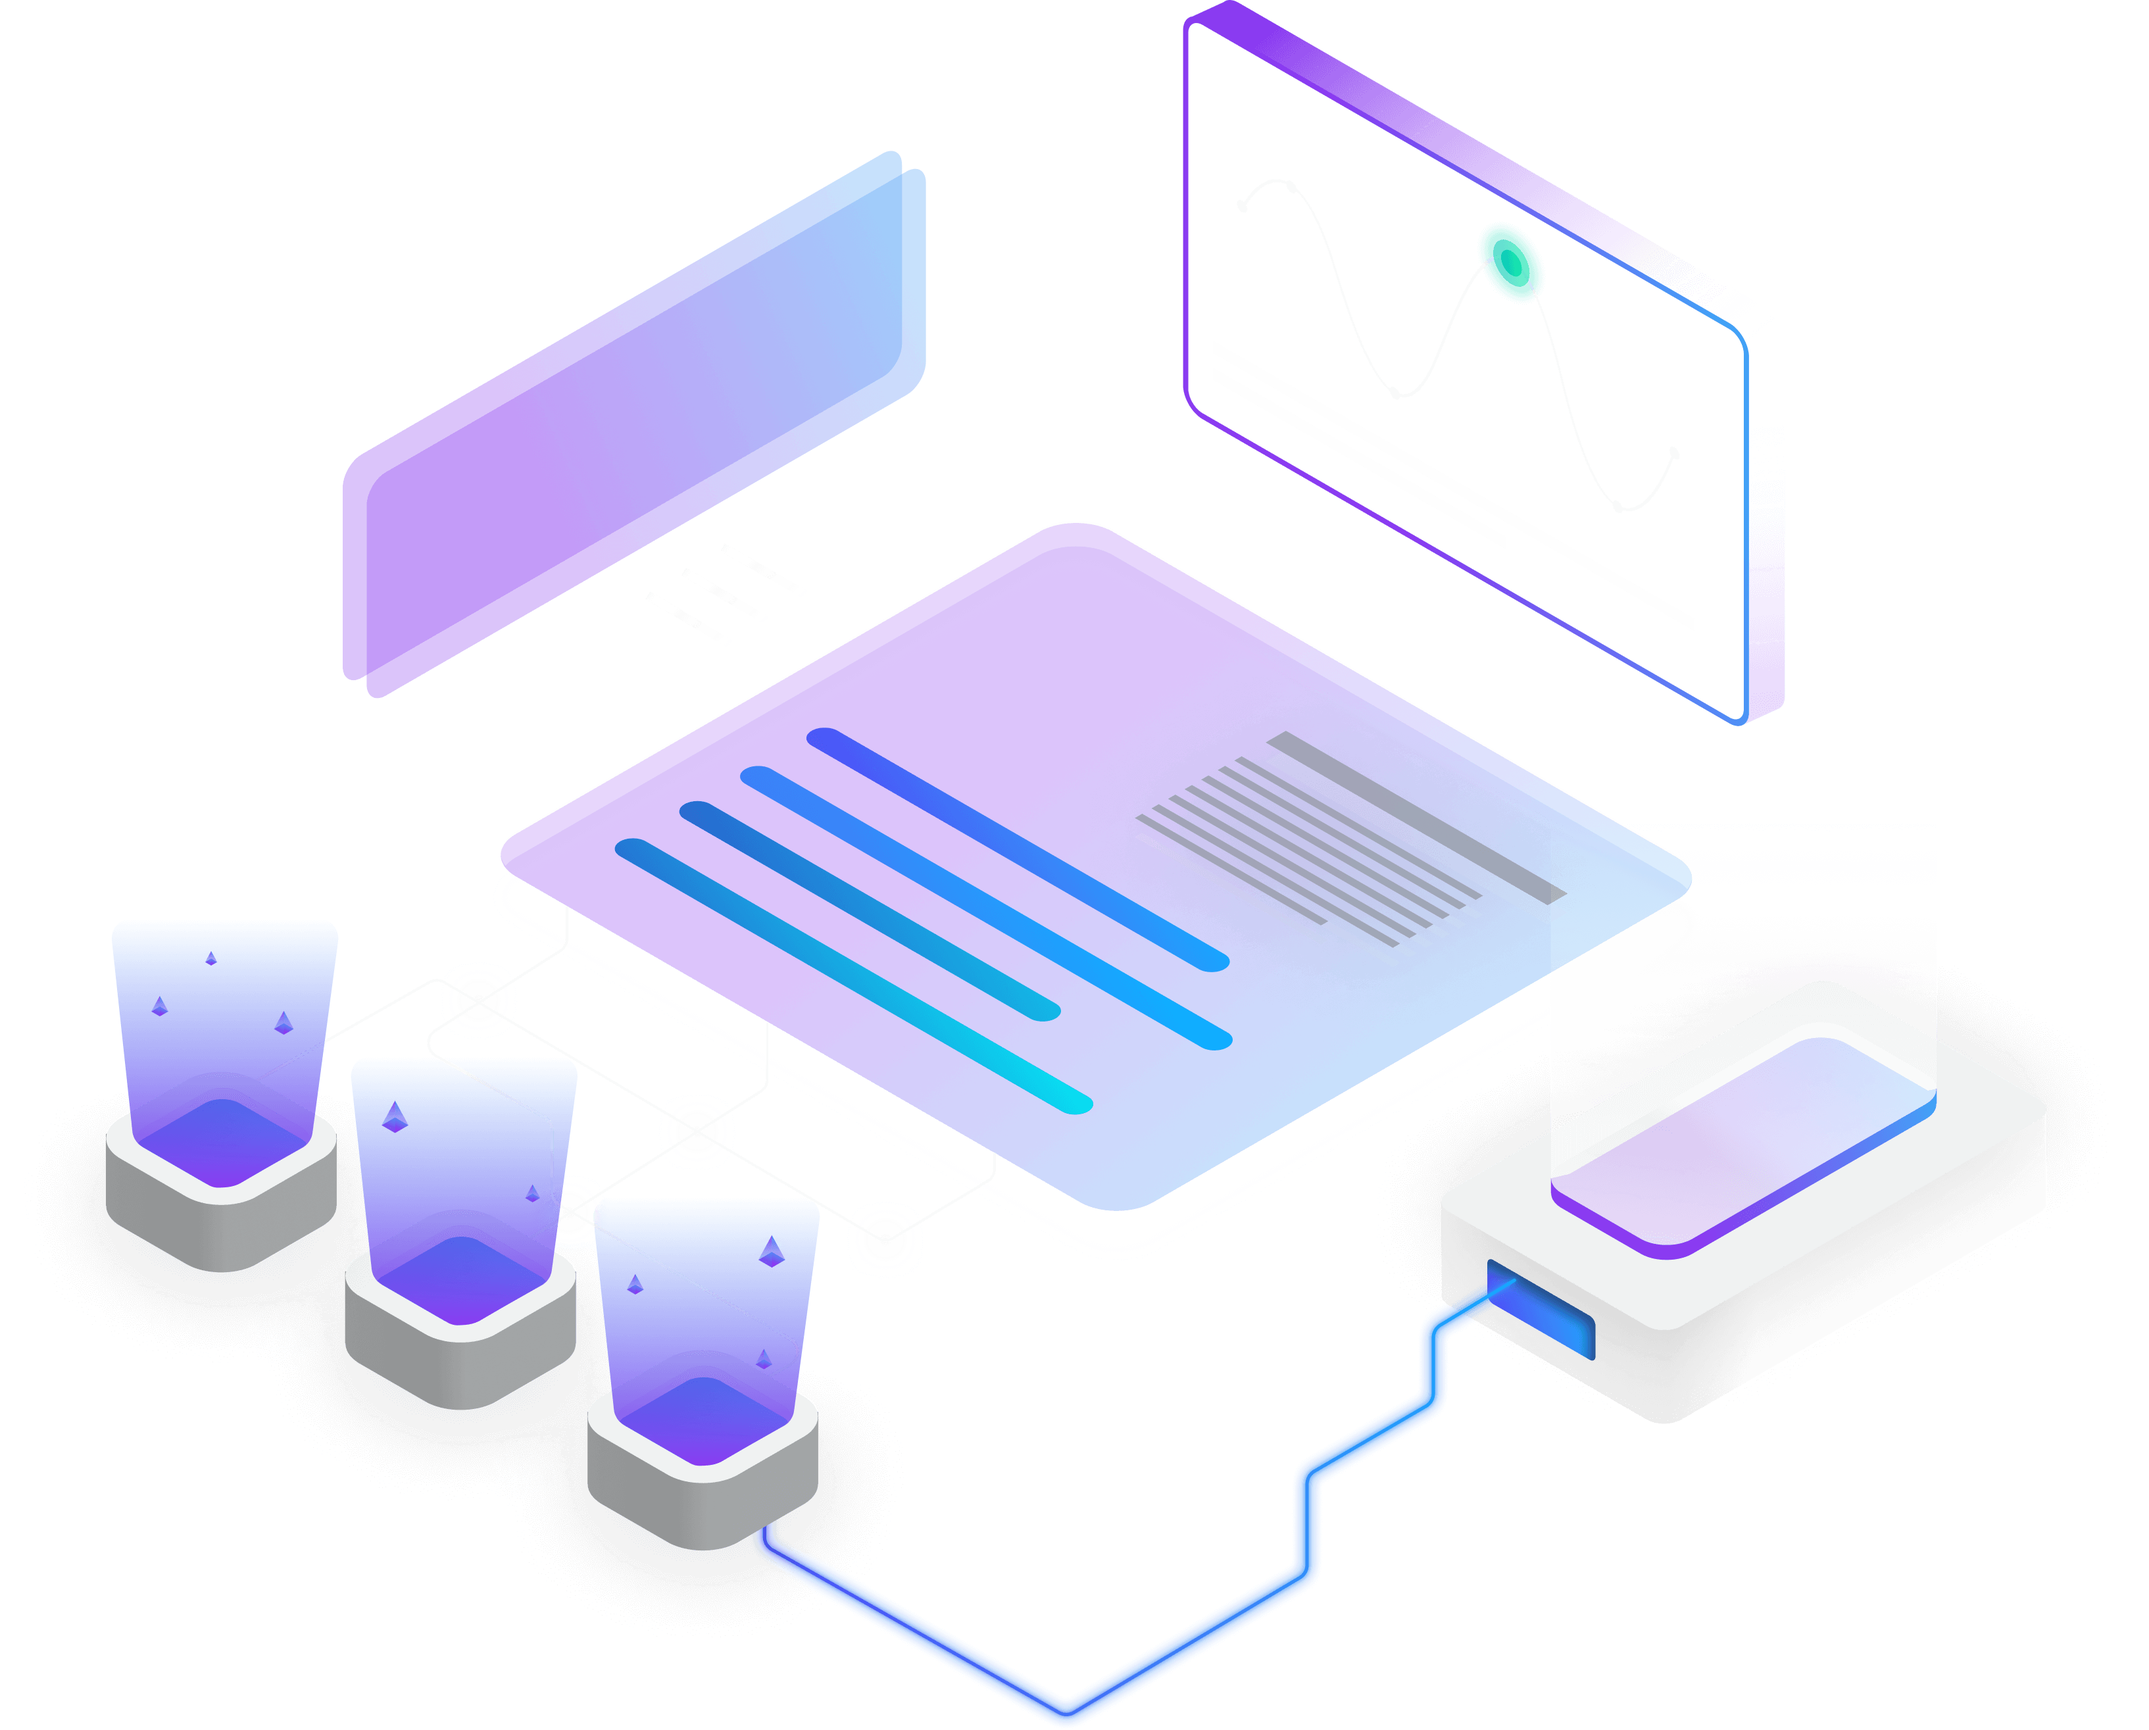
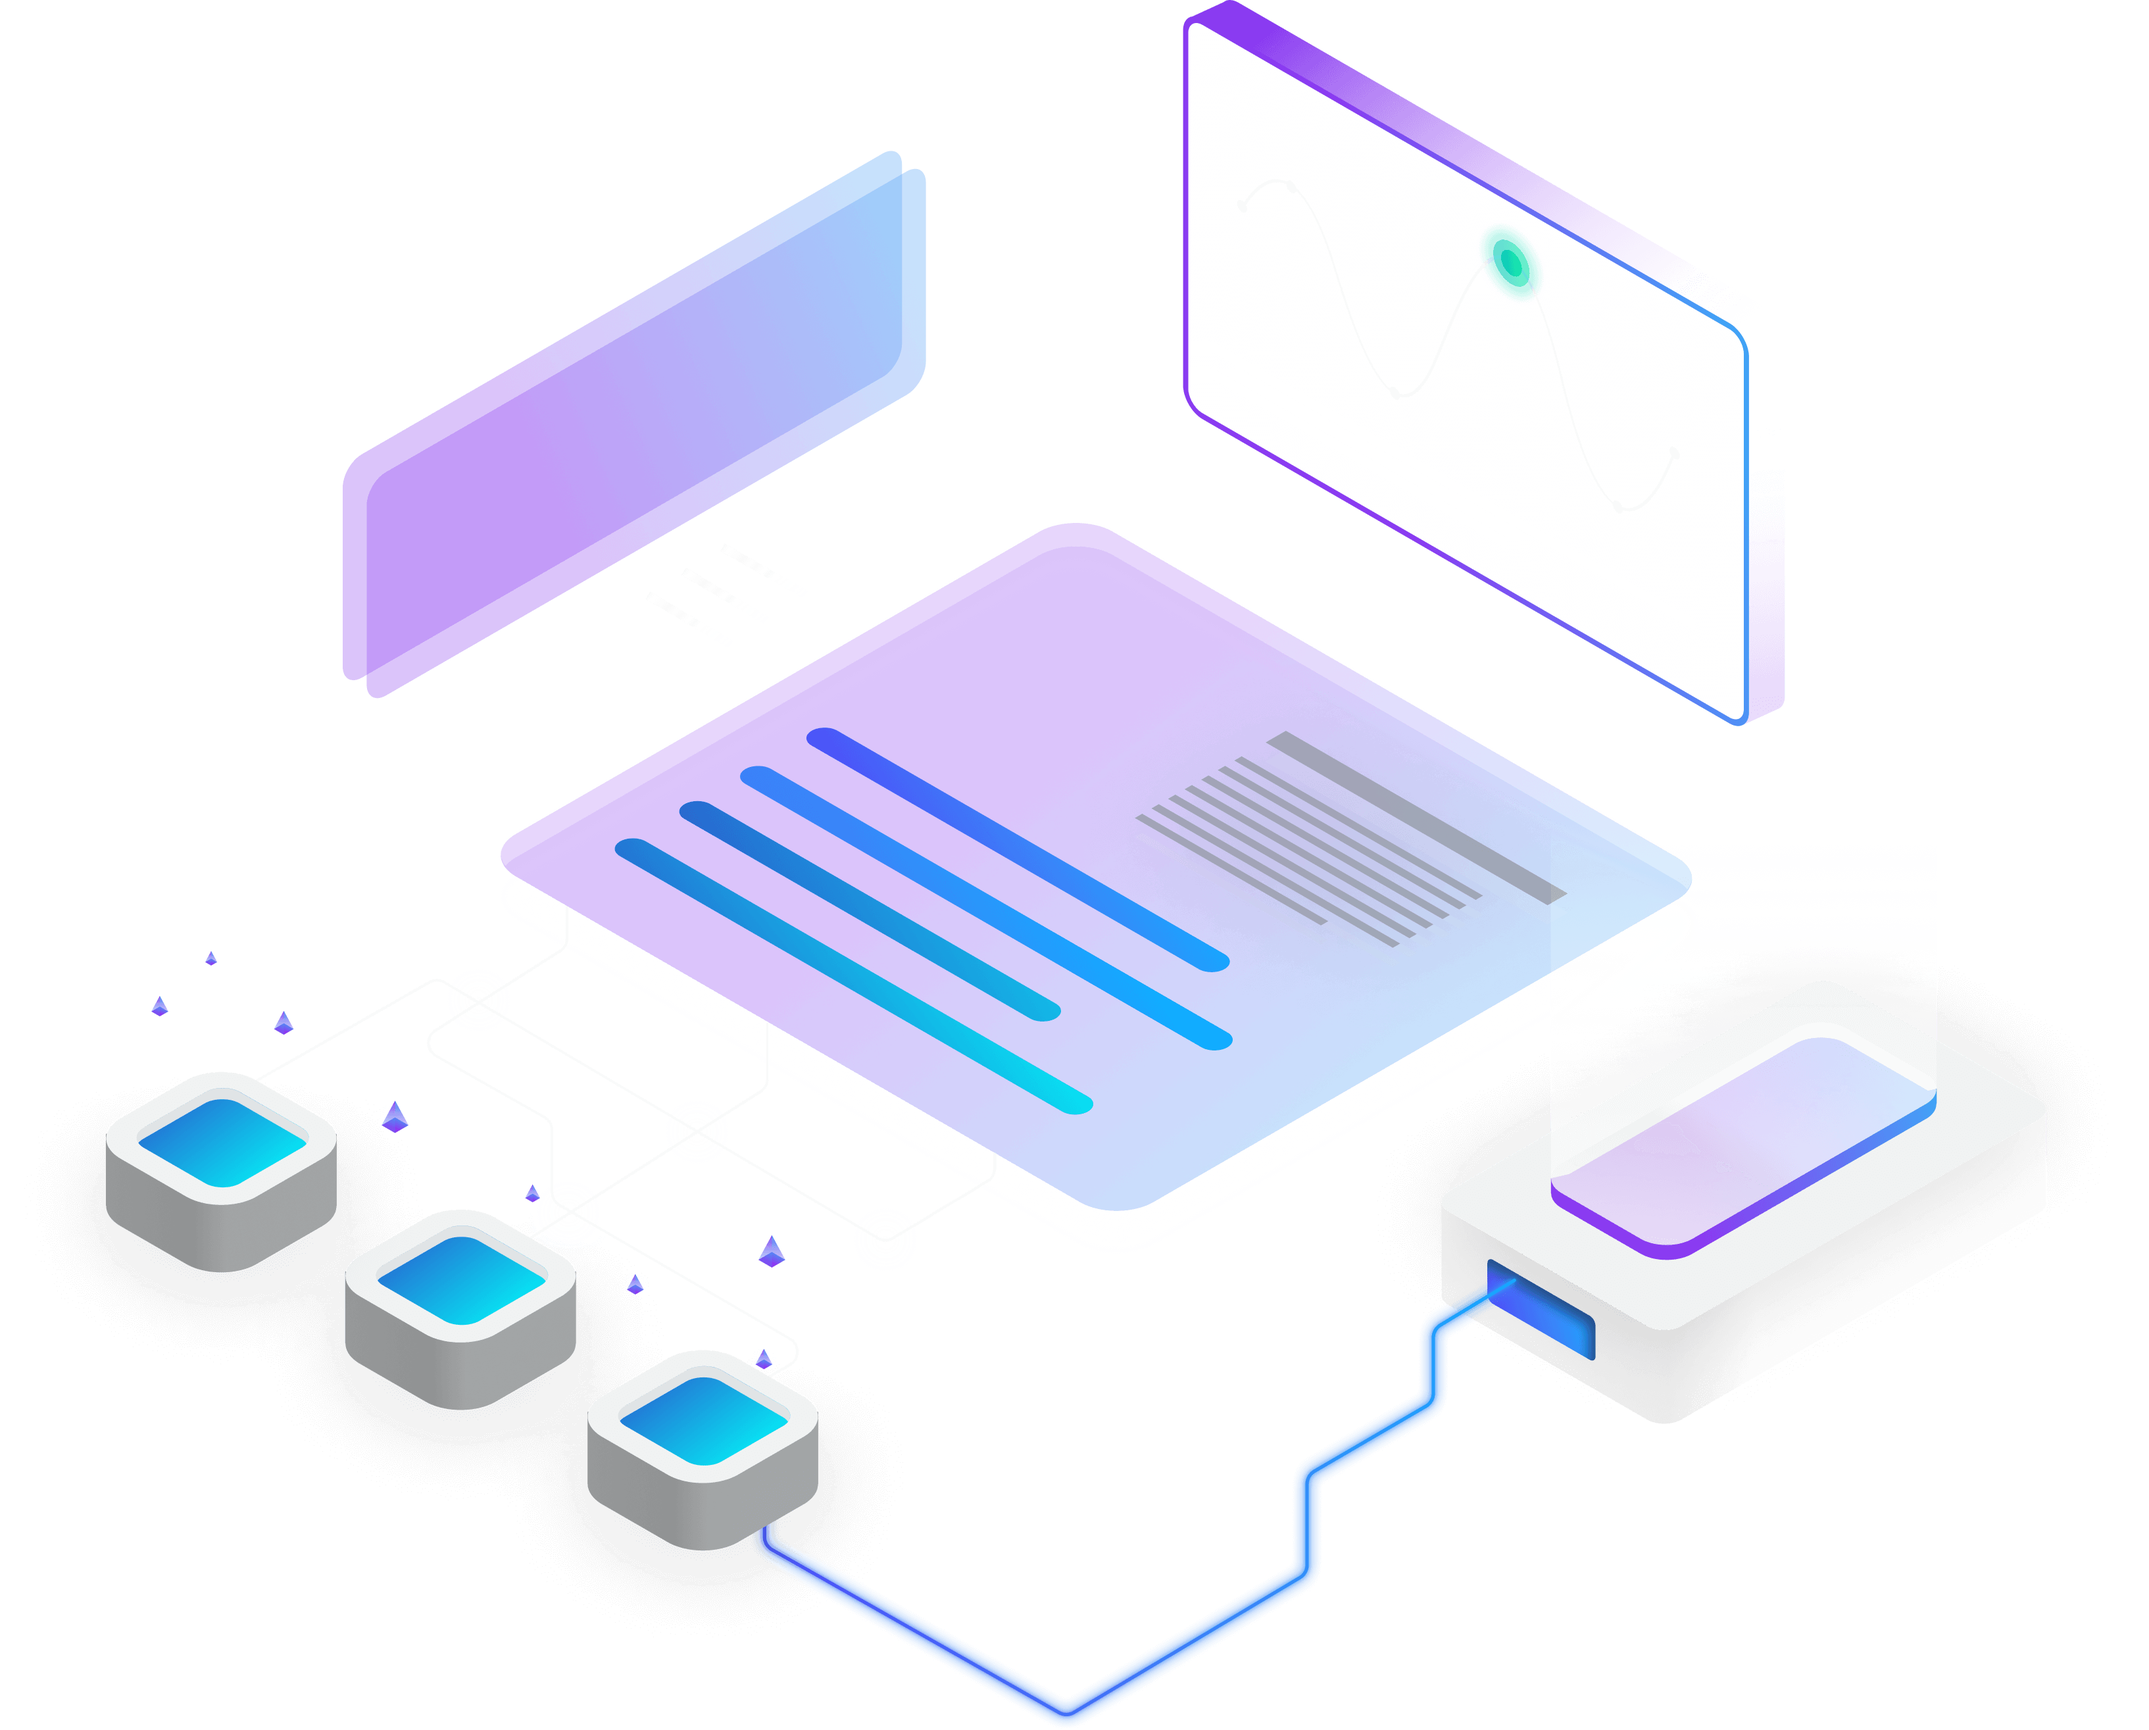
added shadow animation

Changed region(s): [[0.0312, 0.53, 0.4059, 0.8418]]

diff --git a/src/pages/Home/HomeHero.tsx b/src/pages/Home/HomeHero.tsx
@@ -17,6 +17,16 @@ const fadeOut = keyframes`
   }
 `
 
+const scroll = keyframes`
+  0%{
+    transform: rotateX(-30deg) rotateY(-10deg) rotateZ(0deg);
+  }
+
+  100%{
+    transform: rotateX(-30deg) rotateZ(360deg);
+  }
+`
+
 const scrollUp = keyframes`
   100% {
     transform: translateY(-6px);
@@ -100,12 +110,20 @@ export const HomeHero = forwardRef<HTMLDivElement>((_, ref) => {
             width="3267"
             height="2630"
           />
-          <div className="absolute top-[53%] left-[8%] animate-[floatingUp_3.2s_linear_infinite_alternate]">
+          <div className="absolute top-[53%] left-[8.4%] animate-[floatingUp_3s_linear_infinite_alternate]">
             <Image
               src="/images/hero/diamond.png"
               alt="eth"
               width="21"
               height="42"
+            />
+          </div>
+          <div className="absolute top-[50%] left-[5%] opacity-0 animate-fade">
+            <Image
+              src="/images/hero/shadow.png"
+              alt="shadow"
+              width="61"
+              height="80"
             />
           </div>
           <div className="absolute top-[58%] left-[19.2%] animate-[floatingDown_3s_linear_infinite_alternate]">
@@ -116,12 +134,28 @@ export const HomeHero = forwardRef<HTMLDivElement>((_, ref) => {
               height="42"
             />
           </div>
+          <div className="absolute top-[57.8%] left-[15.9%] opacity-0 animate-fade">
+            <Image
+              src="/images/hero/shadow.png"
+              alt="shadow"
+              width="61"
+              height="80"
+            />
+          </div>
           <div className="absolute top-[69%] left-[30.3%] animate-[floatingUp_3.2s_linear_infinite_alternate]">
             <Image
               src="/images/hero/diamond.png"
               alt="eth"
               width="21"
               height="42"
+            />
+          </div>
+          <div className="absolute top-[65.6%] left-[27.4%] opacity-0 animate-fade">
+            <Image
+              src="/images/hero/shadow.png"
+              alt="shadow"
+              width="60"
+              height="80"
             />
           </div>
           <div className="absolute top-[57.3%] right-[19.5%] animate-[floatingUp_3.2s_linear_infinite_alternate]">

diff --git a/tailwind.config.js b/tailwind.config.js
@@ -5,14 +5,21 @@ module.exports = {
     extend: {
       keyframes: {
         floatingUp: {
-          "100%": { transform: "translateY(-0.6rem)" },
+          "100%": { transform: "translateY(-0.75rem)" },
         },
         floatingUp2: {
           "100%": { transform: "translateY(-0.3rem)" },
         },
         floatingDown: {
-          "100%": { transform: "translateY(0.5rem)" },
+          "100%": { transform: "translateY(0.9rem)" },
         },
+        fade: {
+          "50%": { opacity: "1" },
+          "100%": { opacity: "1" },
+        },
+      },
+      animation: {
+        fade: "fade 2.5s linear infinite alternate",
       },
     },
   },
